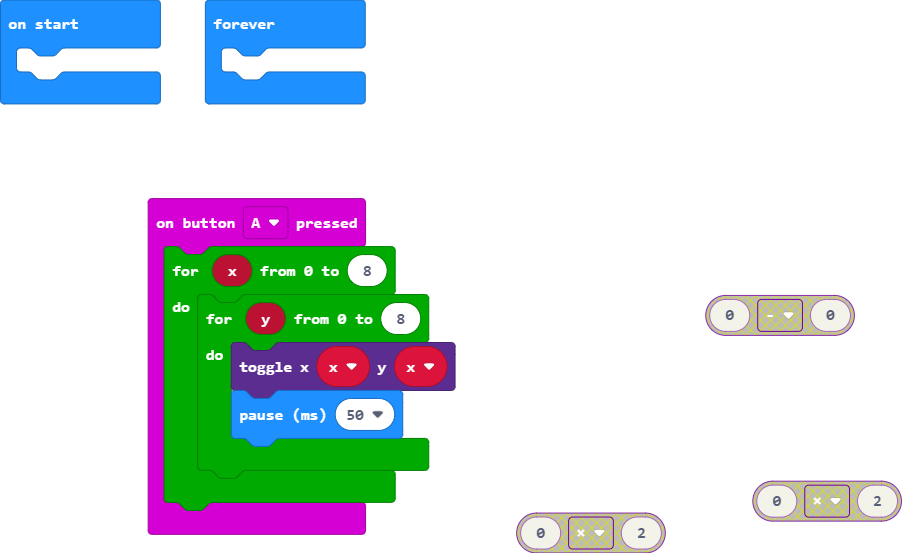
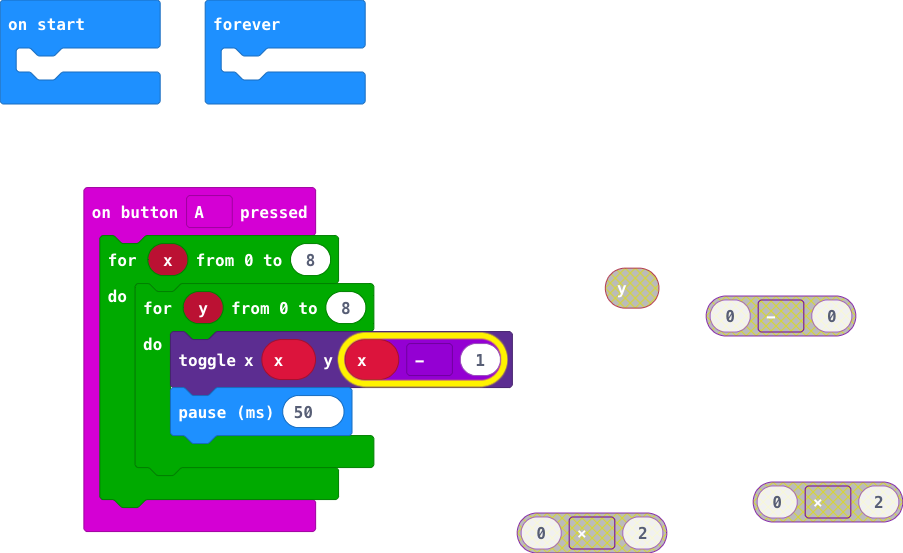
Update main.blocks, main.ts

diff --git a/main.ts b/main.ts
@@ -1,7 +1,7 @@
 input.onButtonPressed(Button.A, function () {
     for (let x = 0; x <= 8; x++) {
         for (let y = 0; y <= 8; y++) {
-            led.toggle(x, x)
+            led.toggle(x, x - 1)
             basic.pause(50)
         }
     }
